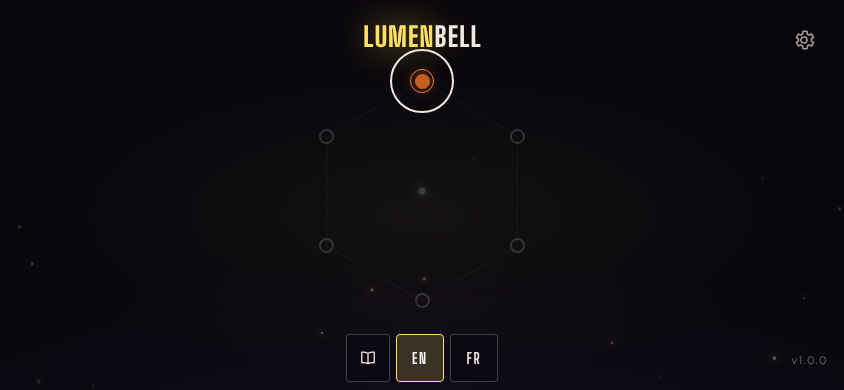
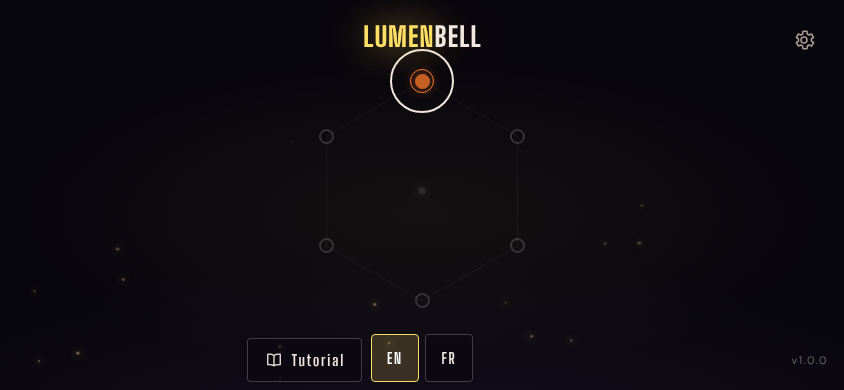
Hub : paysage bas, pastille avec libellé à gauche des langues
Claude-Session: https://claude.ai/code/session_01X2nfcoAZr38TDxuA7s8UVM

Changed region(s): [[0.3081, 0.8308, 0.5853, 0.9846]]

diff --git a/site/index.html b/site/index.html
@@ -84,7 +84,7 @@ body{color:var(--fg);font-family:var(--font-body);font-size:15px;line-height:1.5
 .gear svg{width:var(--gearS);height:var(--gearS);fill:none;stroke:currentColor;stroke-width:1.6;stroke-linejoin:round}
 .gear:hover,.gear[aria-expanded="true"]{color:var(--fg)}
 .tpill{position:absolute;left:50%;bottom:calc(100% + 2px);transform:translateX(-50%);display:inline-flex;align-items:center;justify-content:center;gap:8px;min-height:max(44px,var(--touch));padding:6px 16px;font-family:var(--font-display);font-weight:700;font-size:15px;line-height:1;letter-spacing:.12em;white-space:nowrap;color:var(--fg);background:rgba(10,7,16,.6);border:1px solid rgba(255,255,255,.22);border-radius:4px;cursor:pointer}
-@media (max-height:520px) and (orientation:landscape){.tpill{position:static;transform:none;width:44px;min-width:44px;padding:0;margin-right:6px}.tpill span{display:none}}
+@media (max-height:520px) and (orientation:landscape){.tpill{left:auto;right:calc(50% + 60px);top:6px;bottom:0;transform:none;min-height:0}}
 .tpill svg{width:20px;height:20px;flex:none;fill:none;stroke:currentColor;stroke-width:1.6;stroke-linejoin:round}
 .tpill:hover,.tpill:focus-visible,.tpill[aria-expanded="true"]{border-color:var(--lantern);outline:none}
 .tpill:focus-visible{box-shadow:0 0 0 2px rgba(var(--lanternRgb),.5)}

diff --git a/site/src/page/style.css b/site/src/page/style.css
@@ -90,7 +90,7 @@ body{color:var(--fg);font-family:var(--font-body);font-size:15px;line-height:1.5
 .gear svg{width:var(--gearS);height:var(--gearS);fill:none;stroke:currentColor;stroke-width:1.6;stroke-linejoin:round}
 .gear:hover,.gear[aria-expanded="true"]{color:var(--fg)}
 .tpill{position:absolute;left:50%;bottom:calc(100% + 2px);transform:translateX(-50%);display:inline-flex;align-items:center;justify-content:center;gap:8px;min-height:max(44px,var(--touch));padding:6px 16px;font-family:var(--font-display);font-weight:700;font-size:15px;line-height:1;letter-spacing:.12em;white-space:nowrap;color:var(--fg);background:rgba(10,7,16,.6);border:1px solid rgba(255,255,255,.22);border-radius:4px;cursor:pointer}
-@media (max-height:520px) and (orientation:landscape){.tpill{position:static;transform:none;width:44px;min-width:44px;padding:0;margin-right:6px}.tpill span{display:none}}
+@media (max-height:520px) and (orientation:landscape){.tpill{left:auto;right:calc(50% + 60px);top:6px;bottom:0;transform:none;min-height:0}}
 .tpill svg{width:20px;height:20px;flex:none;fill:none;stroke:currentColor;stroke-width:1.6;stroke-linejoin:round}
 .tpill:hover,.tpill:focus-visible,.tpill[aria-expanded="true"]{border-color:var(--lantern);outline:none}
 .tpill:focus-visible{box-shadow:0 0 0 2px rgba(var(--lanternRgb),.5)}
